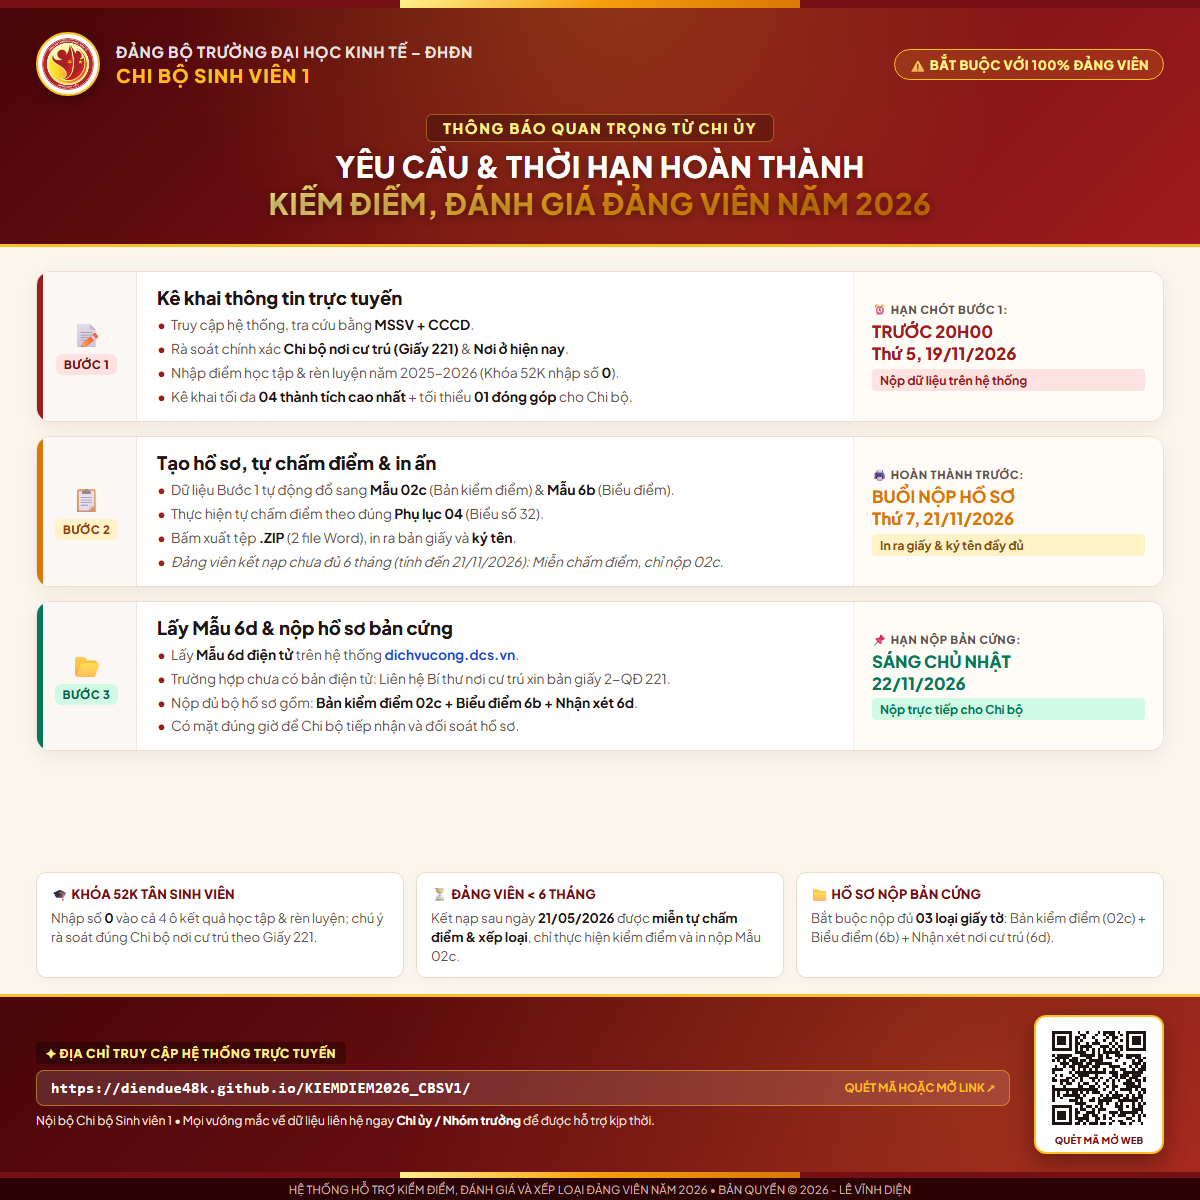
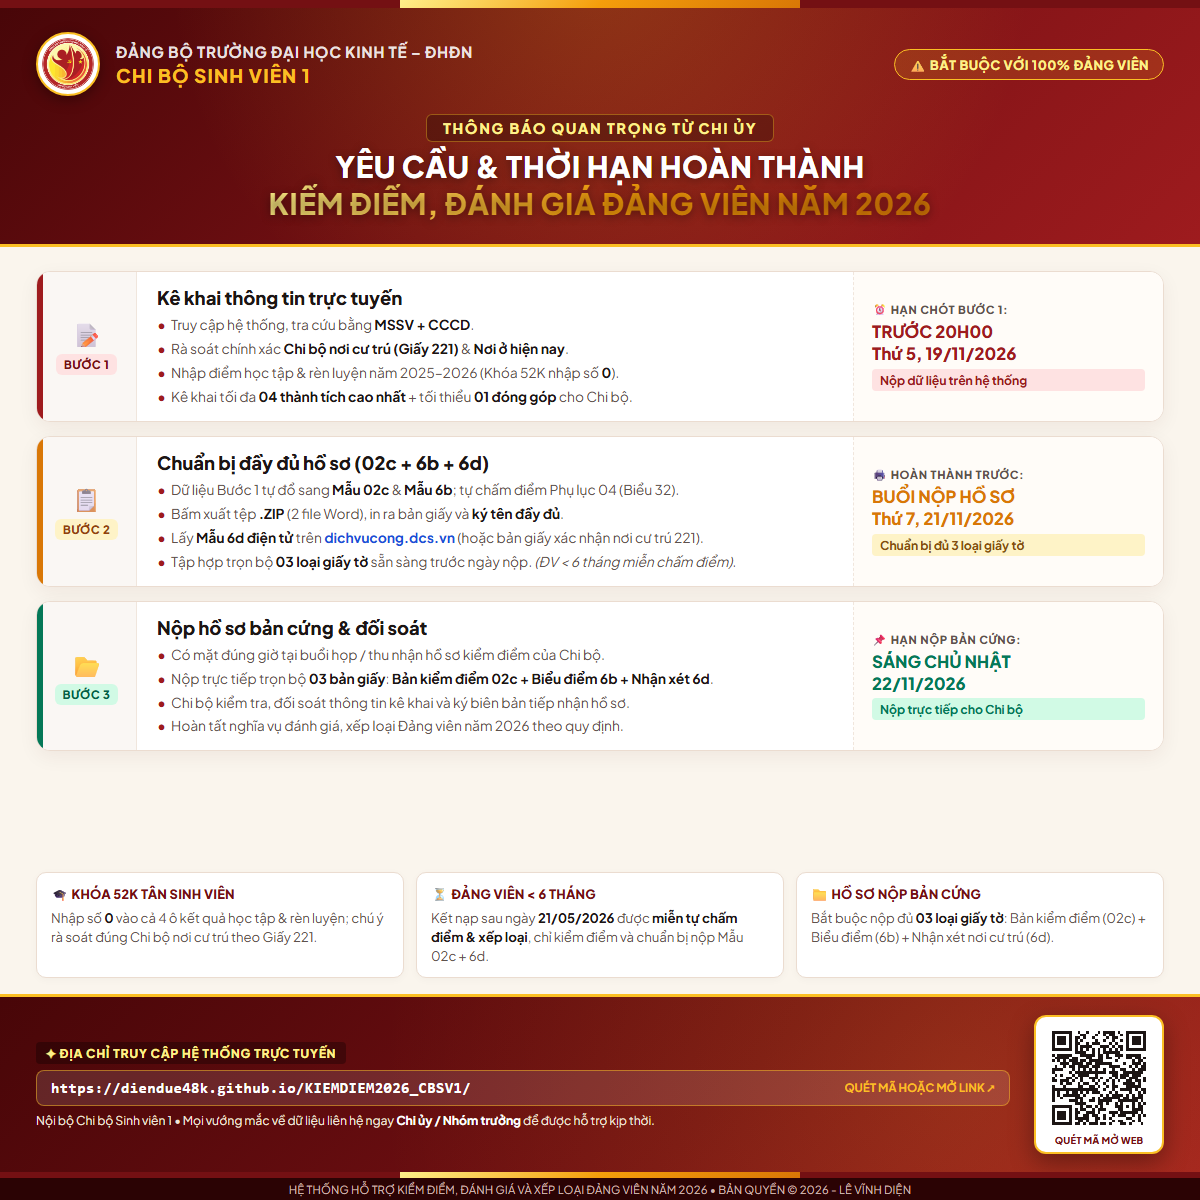
refactor(workflow): move Mau 6d preparation to Step 2 and dedicate Step 3 to physical document submission

Changed region(s): [[0.1233, 0.37, 0.6167, 0.6167], [0.4625, 0.7708, 0.6475, 0.8017], [0.74, 0.4317, 0.8633, 0.4625]]

diff --git a/poster-yeu-cau.html b/poster-yeu-cau.html
@@ -685,18 +685,18 @@
               <span class="step-badge">BƯỚC 2</span>
             </div>
             <div class="step-col-content">
-              <h4>Tạo hồ sơ, tự chấm điểm &amp; in ấn</h4>
+              <h4>Chuẩn bị đầy đủ hồ sơ (02c + 6b + 6d)</h4>
               <ul>
-                <li>Dữ liệu Bước 1 tự động đổ sang <strong>Mẫu 02c</strong> (Bản kiểm điểm) &amp; <strong>Mẫu 6b</strong> (Biểu điểm).</li>
-                <li>Thực hiện tự chấm điểm theo đúng <strong>Phụ lục 04</strong> (Biểu số 32).</li>
-                <li>Bấm xuất tệp <strong>.ZIP</strong> (2 file Word), in ra bản giấy và <strong>ký tên</strong>.</li>
-                <li><em>Đảng viên kết nạp chưa đủ 6 tháng (tính đến 21/11/2026): Miễn chấm điểm, chỉ nộp 02c.</em></li>
+                <li>Dữ liệu Bước 1 tự đổ sang <strong>Mẫu 02c</strong> &amp; <strong>Mẫu 6b</strong>; tự chấm điểm Phụ lục 04 (Biểu 32).</li>
+                <li>Bấm xuất tệp <strong>.ZIP</strong> (2 file Word), in ra bản giấy và <strong>ký tên đầy đủ</strong>.</li>
+                <li>Lấy <strong>Mẫu 6d điện tử</strong> trên <strong style="color: var(--blue);">dichvucong.dcs.vn</strong> (hoặc bản giấy xác nhận nơi cư trú 221).</li>
+                <li>Tập hợp trọn bộ <strong>03 loại giấy tờ</strong> sẵn sàng trước ngày nộp. <em>(ĐV &lt; 6 tháng miễn chấm điểm)</em>.</li>
               </ul>
             </div>
             <div class="step-col-deadline">
               <div class="dl-label">🖨 Hoàn thành trước:</div>
               <div class="dl-time">BUỔI NỘP HỒ SƠ<br>Thứ 7, 21/11/2026</div>
-              <span class="dl-action-note">In ra giấy &amp; ký tên đầy đủ</span>
+              <span class="dl-action-note">Chuẩn bị đủ 3 loại giấy tờ</span>
             </div>
           </div>
 
@@ -707,12 +707,12 @@
               <span class="step-badge">BƯỚC 3</span>
             </div>
             <div class="step-col-content">
-              <h4>Lấy Mẫu 6d &amp; nộp hồ sơ bản cứng</h4>
+              <h4>Nộp hồ sơ bản cứng &amp; đối soát</h4>
               <ul>
-                <li>Lấy <strong>Mẫu 6d điện tử</strong> trên hệ thống <strong style="color: var(--blue);">dichvucong.dcs.vn</strong>.</li>
-                <li>Trường hợp chưa có bản điện tử: Liên hệ Bí thư nơi cư trú xin bản giấy 2-QĐ 221.</li>
-                <li>Nộp đủ bộ hồ sơ gồm: <strong>Bản kiểm điểm 02c + Biểu điểm 6b + Nhận xét 6d</strong>.</li>
-                <li>Có mặt đúng giờ để Chi bộ tiếp nhận và đối soát hồ sơ.</li>
+                <li>Có mặt đúng giờ tại buổi họp / thu nhận hồ sơ kiểm điểm của Chi bộ.</li>
+                <li>Nộp trực tiếp trọn bộ <strong>03 bản giấy</strong>: <strong>Bản kiểm điểm 02c + Biểu điểm 6b + Nhận xét 6d</strong>.</li>
+                <li>Chi bộ kiểm tra, đối soát thông tin kê khai và ký biên bản tiếp nhận hồ sơ.</li>
+                <li>Hoàn tất nghĩa vụ đánh giá, xếp loại Đảng viên năm 2026 theo quy định.</li>
               </ul>
             </div>
             <div class="step-col-deadline">
@@ -732,7 +732,7 @@
           </div>
           <div class="note-item">
             <div class="note-header">⏳ Đảng viên &lt; 6 tháng</div>
-            <div class="note-desc">Kết nạp sau ngày <strong>21/05/2026</strong> được <strong>miễn tự chấm điểm &amp; xếp loại</strong>, chỉ thực hiện kiểm điểm và in nộp Mẫu 02c.</div>
+            <div class="note-desc">Kết nạp sau ngày <strong>21/05/2026</strong> được <strong>miễn tự chấm điểm &amp; xếp loại</strong>, chỉ kiểm điểm và chuẩn bị nộp Mẫu 02c + 6d.</div>
           </div>
           <div class="note-item">
             <div class="note-header">📁 Hồ sơ nộp bản cứng</div>

diff --git a/poster.html b/poster.html
@@ -1609,10 +1609,10 @@
                   <div>
                     <div class="step-top">
                       <span class="step-pill">Bước 2</span>
-                      <span class="step-icon-mini">📦</span>
+                      <span class="step-icon-mini">📋</span>
                     </div>
-                    <h3>Tạo &amp; Xuất biểu mẫu in</h3>
-                    <p>Hệ thống tự đổ dữ liệu từ Bước 1 sang <strong>Mẫu 02c</strong> &amp; <strong>Mẫu 6b</strong>. Bổ sung kiểm điểm, chấm điểm Phụ lục 04 và xuất tệp <strong>.ZIP</strong> (2 file Word) in ký tên.</p>
+                    <h3>Chuẩn bị đầy đủ hồ sơ</h3>
+                    <p>Xuất &amp; in <strong>Mẫu 02c + 6b</strong> (tự chấm Phụ lục 04, ký tên) và lấy <strong>Mẫu 6d</strong> (tải từ <strong>dichvucong.dcs.vn</strong> hoặc bản giấy nơi cư trú 221).</p>
                   </div>
                   <div class="deadline-tag gold">📄 Hoàn thành trước buổi nộp hồ sơ</div>
                 </div>
@@ -1623,8 +1623,8 @@
                       <span class="step-pill">Bước 3</span>
                       <span class="step-icon-mini">📁</span>
                     </div>
-                    <h3>Lấy Mẫu 6d &amp; Nộp bản giấy</h3>
-                    <p>Tải <strong>Mẫu 6d</strong> điện tử tại <strong>dichvucong.dcs.vn</strong> (hoặc bản giấy mẫu 2-QĐ 221 có xác nhận nơi cư trú). Nộp đủ 03 bản: <strong>02c + 6b + 6d</strong>.</p>
+                    <h3>Nộp hồ sơ bản cứng</h3>
+                    <p>Nộp trực tiếp trọn bộ 03 bản giấy: <strong>Mẫu 02c + Mẫu 6b + Mẫu 6d</strong> cho Chi bộ tại buổi kiểm điểm để đối soát và tiếp nhận.</p>
                   </div>
                   <div class="deadline-tag">📌 Sáng Chủ nhật, ngày 22/11/2026</div>
                 </div>
@@ -1740,17 +1740,17 @@
                   </div>
                   <div class="step-box step-2">
                     <div>
-                      <div class="step-top"><span class="step-pill">Bước 2</span><span>📦</span></div>
-                      <h3>Tạo &amp; Xuất Mẫu 02c + 6b</h3>
-                      <p>Nhận dữ liệu từ Bước 1, chèn gợi ý, chấm điểm Phụ lục 04 và xuất tệp <strong>.ZIP</strong> 2 file Word để in.</p>
+                      <div class="step-top"><span class="step-pill">Bước 2</span><span>📋</span></div>
+                      <h3>Chuẩn bị hồ sơ</h3>
+                      <p>In ký <strong>Mẫu 02c + 6b</strong> (tự chấm Phụ lục 04) và lấy <strong>Mẫu 6d</strong> (từ <strong>dichvucong.dcs.vn</strong> hoặc nơi cư trú).</p>
                     </div>
-                    <div class="deadline-tag gold">Tự động đổ từ Bước 1</div>
+                    <div class="deadline-tag gold">Chuẩn bị đủ 3 loại giấy</div>
                   </div>
                   <div class="step-box">
                     <div>
                       <div class="step-top"><span class="step-pill">Bước 3</span><span>📁</span></div>
-                      <h3>Mẫu 6d &amp; Nộp bản giấy</h3>
-                      <p>Tải Mẫu 6d trên <strong>dichvucong.dcs.vn</strong> (hoặc bản giấy 2-QĐ 221); nộp đủ <strong>02c + 6b + 6d</strong>.</p>
+                      <h3>Nộp hồ sơ bản cứng</h3>
+                      <p>Nộp đủ bộ 03 bản giấy: <strong>02c + 6b + 6d</strong> trực tiếp cho Chi bộ tại buổi kiểm điểm để đối soát.</p>
                     </div>
                     <div class="deadline-tag">Sáng Chủ nhật • 22/11/2026</div>
                   </div>

diff --git a/huong-dan.html b/huong-dan.html
@@ -716,8 +716,8 @@
       <div class="quick-nav">
         <a href="#so-do-bpmn" class="nav-pill hidden">Sơ đồ quy trình thực hiện</a>
         <a href="#buoc-1" class="nav-pill">Bước 1: Kê khai trực tuyến</a>
-        <a href="#buoc-2" class="nav-pill">Bước 2: Tạo &amp; in Mẫu 02c + 6b</a>
-        <a href="#buoc-3" class="nav-pill">Bước 3: Mẫu 6d &amp; Nộp hồ sơ</a>
+        <a href="#buoc-2" class="nav-pill">Bước 2: Chuẩn bị hồ sơ (02c + 6b + 6d)</a>
+        <a href="#buoc-3" class="nav-pill">Bước 3: Nộp hồ sơ bản cứng</a>
         <a href="#faq" class="nav-pill">Giải đáp thắc mắc (FAQ)</a>
       </div>
     </header>
@@ -826,7 +826,7 @@
       <div class="section-header">
         <div class="section-header-left">
           <span class="step-badge">Bước 2</span>
-          <h2 class="section-title">Tạo và tải bộ biểu mẫu để in</h2>
+          <h2 class="section-title">Chuẩn bị hồ sơ (Mẫu 02c + Mẫu 6b + Mẫu 6d)</h2>
         </div>
         <a href="mau-02c.html?v=20261117" class="cta-inline">
           <span>Mở trang Tạo hồ sơ để in</span>
@@ -870,19 +870,9 @@
           <li>Trên trang chủ, bấm <strong>"Tải mẫu trống"</strong> để tải bộ biểu mẫu gốc và bấm <strong>"Xem hướng dẫn ghi"</strong> để đọc quy cách viết tay/đánh máy đúng chuẩn Chi bộ.</li>
         </ul>
       </div>
-    </section>
 
-    <!-- BƯỚC 3 -->
-    <section id="buoc-3" class="section-card">
-      <div class="section-header">
-        <div class="section-header-left">
-          <span class="step-badge">Bước 3</span>
-          <h2 class="section-title">Chuẩn bị Mẫu 6d (Nhận xét nơi cư trú) &amp; Nộp hồ sơ</h2>
-        </div>
-      </div>
-
-      <div class="guide-block">
-        <h3><span class="num-circle">1</span> Lấy Mẫu 6d (Nhận xét nơi cư trú)</h3>
+      <div class="guide-block" style="margin-top: 16px;">
+        <h3><span class="num-circle">2</span> Lấy Mẫu 6d (Nhận xét nơi cư trú)</h3>
         <ul class="guide-ul">
           <li>
             <strong>Bản online (ưu tiên):</strong> Truy cập Cổng Dịch vụ công Đảng tại <a href="https://dichvucong.dcs.vn" target="_blank" style="color: var(--crimson); font-weight: 700;">dichvucong.dcs.vn</a> &rarr; Đăng nhập &rarr; Chọn <strong>Thủ tục hành chính của tôi</strong> &rarr; Bấm vào dòng <strong>Lấy ý kiến nhận xét của Chi ủy chi bộ đối với đảng viên sinh hoạt nơi cư trú</strong> &rarr; <strong>Chi tiết giấy tờ</strong> &rarr; Bấm biểu tượng tải xuống và in ra.
@@ -896,6 +886,16 @@
             </ul>
           </li>
         </ul>
+      </div>
+    </section>
+
+    <!-- BƯỚC 3 -->
+    <section id="buoc-3" class="section-card">
+      <div class="section-header">
+        <div class="section-header-left">
+          <span class="step-badge">Bước 3</span>
+          <h2 class="section-title">Nộp hồ sơ bản cứng &amp; đối soát</h2>
+        </div>
       </div>
 
       <div class="checklist-box">

diff --git a/HUONG_DAN_DANG_VIEN_2026.md b/HUONG_DAN_DANG_VIEN_2026.md
@@ -9,8 +9,8 @@
 | Mốc công việc | Địa chỉ thực hiện | Thời hạn hoàn thành |
 |---|---|---|
 | **Bước 1: Kê khai thông tin trực tuyến** | Trang chủ → **Thực hiện kê khai ngay** | Trước **20h00 - Thứ 5, ngày 19/11/2026** |
-| **Bước 2: Tạo & in Mẫu 02c + Mẫu 6b** | Trang chủ → **Tạo hồ sơ để in** *(hoặc tải mẫu trống)* | Hoàn thành trước buổi nộp hồ sơ |
-| **Bước 3: Lấy Mẫu 6d & Nộp hồ sơ bản giấy** | [dichvucong.dcs.vn](https://dichvucong.dcs.vn) / Mẫu 6d giấy | **Sáng Chủ nhật, ngày 22/11/2026** |
+| **Bước 2: Chuẩn bị đầy đủ hồ sơ (02c + 6b + 6d)** | Trang chủ → **Tạo hồ sơ để in** & [dichvucong.dcs.vn](https://dichvucong.dcs.vn) | Hoàn thành trước buổi nộp hồ sơ (Thứ 7, 21/11/2026) |
+| **Bước 3: Nộp hồ sơ bản cứng & đối soát** | Chi bộ Sinh viên 1 (nộp trực tiếp 03 bản giấy) | **Sáng Chủ nhật, ngày 22/11/2026** |
 
 ---
 
@@ -23,21 +23,22 @@ Kính gửi các đồng chí Đảng viên Chi bộ Sinh viên 1,
 Đề nghị các đồng chí truy cập Hệ thống hỗ trợ kiểm điểm, đánh giá và xếp loại Đảng viên năm 2026 tại đường dẫn:
 👉 https://diendue48k.github.io/KIEMDIEM2026_CBSV1/
 
-Các đồng chí thực hiện đầy đủ theo 3 bước trên hệ thống:
+Các đồng chí thực hiện đầy đủ theo 3 bước:
 1⃣ BƯỚC 1 - Kê khai trực tuyến ("Thực hiện kê khai ngay"):
-   • Tra cứu bằng MSSV và CCCD; kiểm tra lại thông tin Chi bộ nơi cư trú & nơi ở hiện nay.
+   • Tra cứu bằng MSSV và CCCD; kiểm tra lại thông tin Chi bộ nơi cư trú (Giấy 221) & nơi ở hiện nay.
    • Nhập điểm học tập, rèn luyện năm học 2025 - 2026 (Khóa 52K nhập "0").
-   • Mục 3.1: chỉ kê khai tối đa 04 thành tích cao nhất, nổi bật nhất.
+   • Mục 3.1: chỉ kê khai tối đa 04 thành tích cao nhất, nổi bật nhất; tối thiểu 01 hoạt động đóng góp cho Chi bộ.
    • HẠN CUỐI KÊ KHAI TRỰC TUYẾN: Trước 20h00 - Thứ 5, ngày 19/11/2026.
 
-2⃣ BƯỚC 2 - Tạo và xuất biểu mẫu để in ("Tạo hồ sơ để in"):
-   • Sau khi kê khai xong Bước 1, hệ thống tự đổ dữ liệu sang Mẫu 02c và Mẫu 6b.
-   • Chỉnh sửa, tự chấm điểm (theo Phụ lục 04) và bấm xuất tệp ZIP gồm 2 file Word (Mẫu 02c + Mẫu 6b) để in và ký tên.
-   (Đảng viên kết nạp chưa đủ 6 tháng tính đến 21/11/2026 được miễn tự chấm điểm/xếp loại, chỉ thực hiện kê khai và xuất bản kiểm điểm).
+2⃣ BƯỚC 2 - Chuẩn bị đầy đủ bộ hồ sơ (Mẫu 02c + Mẫu 6b + Mẫu 6d):
+   • Xuất và in Mẫu 02c & 6b từ mục "Tạo hồ sơ để in" (tự chấm điểm theo Phụ lục 04), in ra giấy và ký tên.
+   • Lấy Mẫu 6d (Nhận xét nơi cư trú): Tải bản điện tử trên https://dichvucong.dcs.vn (hoặc xin bản giấy xác nhận 2-QĐ 221).
+   • Tập hợp trọn bộ 03 loại giấy tờ sẵn sàng trước ngày nộp.
+   (Đảng viên kết nạp chưa đủ 6 tháng tính đến 21/11/2026 được miễn tự chấm điểm/xếp loại, chỉ in nộp Mẫu 02c + 6d).
 
-3⃣ BƯỚC 3 - Lấy Mẫu 6d (Nhận xét nơi cư trú) và nộp hồ sơ bản cứng:
-   • Tải bản điện tử trên https://dichvucong.dcs.vn (nếu chưa có bản điện tử cần liên hệ ngay Bí thư Chi bộ nơi cư trú theo hướng dẫn trên trang chủ).
-   • HẠN NỘP ĐẦY ĐỦ HỒ SƠ CHO CHI BỘ: Sáng Chủ nhật, ngày 22/11/2026.
+3⃣ BƯỚC 3 - Nộp hồ sơ bản cứng & đối soát:
+   • Có mặt đúng giờ tại buổi họp của Chi bộ, nộp trực tiếp đủ 03 bản giấy: Mẫu 02c + Mẫu 6b + Mẫu 6d.
+   • HẠN NỘP BẢN CỨNG CHO CHI BỘ: Sáng Chủ nhật, ngày 22/11/2026.
 
 Trân trọng!
 ```
